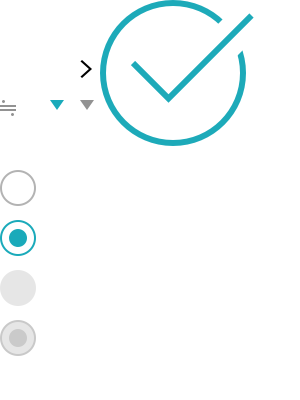
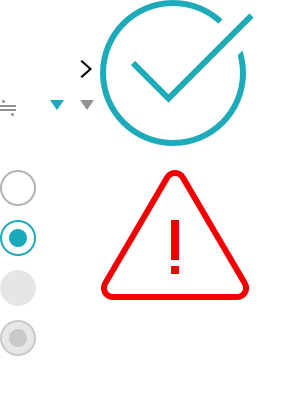
Add transaction error case in popup

Changed region(s): [[0.33, 0.42, 0.84, 0.75], [0.57, 0.54, 0.6, 0.69]]

diff --git a/src/app-popup/components/CompleteTransaction.js b/src/app-popup/components/CompleteTransaction.js
@@ -1,6 +1,7 @@
 import React, { Component } from 'react';
 import withLanguageProps from 'HOC/withLanguageProps';
 import { txidUrl as TXID_URL } from 'constants/config.js'
+import { nToBr } from 'utils/utils'
 
 @withLanguageProps
 class CompleteTransaction extends Component {
@@ -10,33 +11,55 @@ class CompleteTransaction extends Component {
 		window.chrome.runtime.sendMessage({ type: 'CLOSE_POPUP' });
 	}
 
-	checkTransaction = url => {		
-		window.open(url, '_blank');	
-		this.closePopup()	
+	checkTransaction = url => {
+		window.open(url, '_blank');
+		this.closePopup()
 	}
 
 	render() {
 		const { I18n, transaction } = this.props;
-		const txUrl = TXID_URL['icx'] + transaction.txHash
-		return (
-			<div className="wrap remittance complete">
-				<div className="content-wrap">
-					<div className="scroll">
-						<i className="_img"></i>
-						<p>
-							Transfer Request Complete.<br/>
-							You can check the transaction history<br/>
-							on ICON Tracker
-						</p>
-						<a href={txUrl} target="_blank"><span>{I18n.sendTransaction.openTracker}</span></a>
+		const { txHash, error } = transaction
+		const txUrl = TXID_URL['icx'] + txHash
+		const Content = () => {
+			if (!!txHash) {
+				return (
+					<div className="wrap remittance complete">
+						<div className="content-wrap">
+							<div className="scroll">
+								<i className="_img"></i>
+								<p ref={ref => {if (ref) ref.innerHTML = I18n.completeTransaction.success}}></p>
+								<a href={txUrl} target="_blank"><span>{I18n.sendTransaction.openTracker}</span></a>
+							</div>
+						</div>
+						<div className="footer cols-2">
+							<button className="btn-type-normal" onClick={this.closePopup} ><span>{I18n.button.close}</span></button>
+							<button className="btn-type-ok" onClick={() => { this.checkTransaction(txUrl) }}><span>{I18n.button.checkTransction}</span></button>
+						</div>
 					</div>
-				</div>
-				<div className="footer cols-2">
-					<button className="btn-type-normal" onClick={this.closePopup} ><span>{I18n.button.confirm}</span></button>
-					<button className="btn-type-ok" onClick={()=>{this.checkTransaction(txUrl)}}><span>{I18n.button.checkTransction}</span></button> 
-				</div>
-			s</div>
-		);
+				)
+			}
+			else if (!!error) {
+				return (
+					<div className="wrap remittance fail">
+						<div className="content-wrap">
+							<div className="scroll">
+								<i className="_img"></i>
+								<p ref={ref => {if (ref) ref.innerHTML = I18n.completeTransaction.fail}}></p>
+							</div>
+						</div>
+						<div className="footer cols-2">
+							<button className="btn-type-normal" onClick={this.closePopup} ><span>{I18n.button.close}</span></button>
+						</div>
+					</div>
+				)
+			}
+			else {
+				return (
+					<div className="wrap remittance"></div>
+				)
+			}
+		}
+		return Content()
 	}
 }
 

diff --git a/src/app-popup/style/preview.css b/src/app-popup/style/preview.css
@@ -169,12 +169,13 @@ input.error{    border-bottom: 2px solid #ff3344;}
 
 .remittance.complete{}
 .remittance.complete .content-wrap{padding: 0;}
-.remittance.complete .scroll{text-align: center; padding: 0px 50px 26px; display: table; height: auto; position: absolute; top: 0; bottom: 0; margin: auto;}
+.remittance.complete .scroll{text-align: center; padding: 0px 50px 26px; display: table; height: auto; position: absolute; top: 0; bottom: 0; margin: auto; width: 100%;}
 .remittance.complete p{font-size: 14px; color: #262626; font-weight: 500; padding: 28px 0px 9px; }
 .remittance.complete .content-wrap span{ font-size: 12px; color: #1daab9; text-decoration: underline;}
 .remittance.complete ._img{width: 81px; height: 78px; background-position: -50px 0;}
-
-
+.remittance.fail .scroll{text-align: center; padding: 0px 0px 26px; display: table; height: auto; position: absolute; top: 0; bottom: 0; margin: auto; width: 100%;}
+.remittance.fail ._img{width: 75px; height: 65px; background-position: -50px -85px; margin-bottom: 44px;}
+.remittance.fail .footer button{width: 100%;}
 .footer.cols-2{height: 50px; border-top: none; cursor: default; padding: 11px 12px;}
 .footer.cols-2 button{width: 49%;}
 

diff --git a/src/constants/i18n/kr.js b/src/constants/i18n/kr.js
@@ -714,5 +714,10 @@ export default {
     walletFinish: '지갑 만들기 완료',
 
     manualFileName: '[Manual]_How_to_create_ICONex_ETH_wallet_kr',
+  },
+
+  completeTransaction: {
+    success: '송금 요청이 완료되었습니다.<br/>거래 내역은 ICON Tracker에서<br/>조회 가능합니다.',
+    fail: '송금 요청을 실패했습니다.<br/>다시 시도해 주세요.'
   }
 };

diff --git a/src/constants/i18n/en.js b/src/constants/i18n/en.js
@@ -712,5 +712,10 @@ export default {
     walletFinish: 'Wallet has been created.',
 
     manualFileName: '[Manual]_How_to_create_ICONex_ETH_wallet',
+  },
+
+  completeTransaction: {
+    success: 'Transfer Request Complete.<br/>You can check the transaction history<br/>on ICON Tracker.',
+    fail: 'Transfer Request Failed.<br/>Please try again.'
   }
 };
